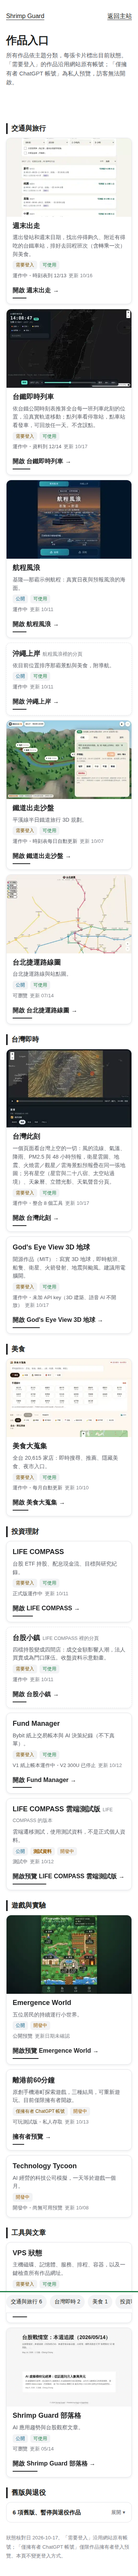
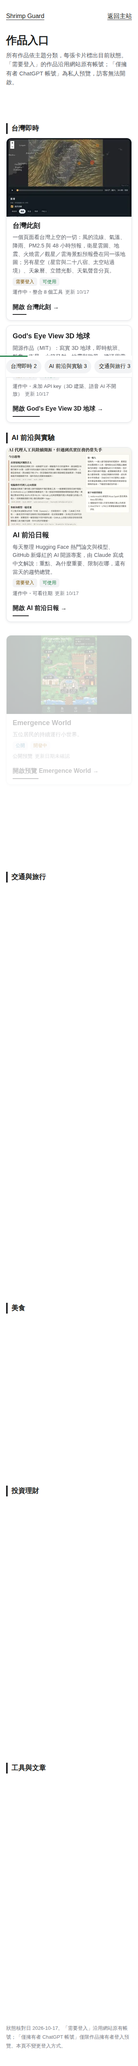
projects: reorganise into 6 themes (台灣即時 / AI 前沿與實驗 / 交通與旅行 / 美食 / 投資理財 / 工具與文章); add AI 前沿日報 and 台灣鐵道 (4 rail tools in one); remove retired, test-copy and undeployed works (14 works)
Claude-Session: https://claude.ai/code/session_01GVcRfQhdVaSGc69DiKrmzk

diff --git a/overlays/projects/index.html b/overlays/projects/index.html
@@ -1,0 +1,50 @@
+<!doctype html><html lang="zh-Hant"><head><meta charset="utf-8"><meta name="viewport" content="width=device-width,initial-scale=1"><title>作品入口 · Shrimp Guard</title><meta name="description" content="Shrimp Guard 所有作品與目前狀態。"><style>
+:root{color-scheme:light dark;--bg:#fff;--card:#fff;--ink:#1d1e20;--ink2:#5b5e66;--ink3:#7d8087;--line:#e3e4e8;--chip:#f2f3f5;--ok:#1d7f46;--dev:#9a5c00;--old:#6c6f77;--ask:#5b43b0;--lock:#7a5000;--pub:#0a5f85}
+@media (prefers-color-scheme:dark){:root{--bg:#1d1e20;--card:#26272b;--ink:#dadadb;--ink2:#b0b2b7;--ink3:#8c8f96;--line:#38393e;--chip:#313237;--ok:#57c785;--dev:#e3a23a;--old:#a3a6ad;--ask:#ad98f2;--lock:#e5b864;--pub:#64bde4}}
+*{box-sizing:border-box}body{margin:0;background:var(--bg);color:var(--ink);font-family:-apple-system,BlinkMacSystemFont,"Segoe UI","PingFang TC","Noto Sans TC",sans-serif;line-height:1.55}
+.shell{max-width:1000px;margin:auto;padding:20px 16px 40px}
+nav.top{display:flex;justify-content:space-between;align-items:center}nav.top a{color:var(--ink);padding:10px 0;text-decoration:underline;text-underline-offset:4px}
+h1{font-size:clamp(28px,5vw,40px);margin:18px 0 6px}.intro{color:var(--ink2);margin:0;font-size:15px}
+.jump{position:sticky;top:0;z-index:2;background:var(--bg);display:flex;gap:8px;overflow-x:auto;padding:10px 0;margin-top:12px;border-bottom:1px solid var(--line)}
+.jump a{flex:none;font-size:14px;padding:7px 12px;border-radius:999px;background:var(--chip);color:var(--ink);text-decoration:none;white-space:nowrap}
+section{scroll-margin-top:60px}h2{font-size:18px;margin:26px 0 10px;padding-left:10px;border-left:4px solid var(--ink)}
+.grid{display:grid;grid-template-columns:repeat(2,minmax(0,1fr));gap:12px;align-items:start}
+.card{background:var(--card);border:1px solid var(--line);border-radius:12px;padding:14px 16px;display:flex;flex-direction:column;gap:6px;min-width:0}
+.card.sub{border-style:dashed}
+.name{font-size:18px;font-weight:700;margin:0}.of{font-size:12.5px;color:var(--ink3);font-weight:400;margin-left:6px}
+.desc{font-size:14px;color:var(--ink2);margin:0}
+.tags{display:flex;gap:6px;flex-wrap:wrap;margin:0;padding:0;list-style:none}
+.tags li{font-size:12px;padding:2px 8px;border-radius:6px;background:var(--chip);color:var(--ink2)}
+.tags .pub{color:var(--pub)}.tags .lock{color:var(--lock)}.tags .ok{color:var(--ok)}.tags .dev{color:var(--dev)}.tags .old{color:var(--old)}.tags .ask{color:var(--ask)}.tags .test{color:var(--dev);font-weight:700}
+.st{font-size:13px;color:var(--ink2);margin:0}.st time{color:var(--ink3);margin-left:6px}
+.open{margin:2px 0 0}.open a{display:inline-block;padding:8px 0;color:var(--ink);font-weight:700;text-decoration:underline;text-underline-offset:4px}
+details{border:1px solid var(--line);border-radius:12px;background:var(--card)}
+summary{cursor:pointer;padding:14px 16px;font-size:15px;font-weight:700;display:flex;justify-content:space-between;align-items:center}
+summary::-webkit-details-marker{display:none}summary::after{content:"展開 ▾";font-size:13px;font-weight:500;color:var(--ink2)}details[open] summary::after{content:"收合 ▴"}
+details .grid{padding:0 12px 12px}
+footer{margin-top:28px;font-size:13px;color:var(--ink3);line-height:1.8}
+a:focus-visible,summary:focus-visible{outline:3px solid #6797c0;outline-offset:4px}
+@media(max-width:600px){.grid{grid-template-columns:1fr}}
+.pv{display:block;margin:-14px -16px 4px;border-radius:12px 12px 0 0;overflow:hidden;aspect-ratio:8/5;background:var(--chip)}
+.pv img{display:block;width:100%;height:100%;object-fit:cover}
+.progress{position:fixed;left:0;top:0;height:3px;width:100%;background:var(--ok);transform-origin:0 50%;transform:scaleX(0);z-index:5}
+@media (prefers-reduced-motion:no-preference){
+  /* #081 hover lift: up 8 px, shadow blur 6→22 px, 0.3 s ease-out */
+  .card{transition:transform .3s cubic-bezier(.22,.9,.3,1),box-shadow .3s cubic-bezier(.22,.9,.3,1);box-shadow:0 2px 6px rgba(28,35,51,.08)}
+  .card:hover{transform:translateY(-8px);box-shadow:0 12px 22px rgba(28,35,51,.22)}
+  /* #082 image zoom on hover: fixed frame, picture to 1.06× over 0.5 s */
+  .pv img{transition:transform .5s cubic-bezier(.22,.9,.3,1)}.card:hover .pv img{transform:scale(1.06)}
+  /* #086 underline animation: grows from the left in 0.3 s */
+  .open a{text-decoration:none;background:linear-gradient(currentColor,currentColor) 0 100%/30% 2px no-repeat;transition:background-size .3s ease-out}
+  .open a:hover,.open a:focus-visible{background-size:100% 2px}
+  @supports (animation-timeline:view()){
+    /* #074 fade-in on scroll: up from 30 px as each card enters */
+    .card{animation:rise linear both;animation-timeline:view();animation-range:entry 0% entry 35%}
+    @keyframes rise{from{opacity:0;translate:0 30px}to{opacity:1;translate:0 0}}
+    /* #079 scroll progress bar */
+    .progress{animation:grow linear both;animation-timeline:scroll(root)}
+    @keyframes grow{to{transform:scaleX(1)}}
+  }
+}
+@media (prefers-reduced-motion:reduce){.progress{display:none}}
+</style></head><body><div class="progress" aria-hidden="true"></div><div class="shell"><nav class="top" aria-label="網站導覽"><a href="/">Shrimp Guard</a><a href="/">返回主站</a></nav><main><h1>作品入口</h1><p class="intro">所有作品依主題分類，每張卡片標出目前狀態。「需要登入」的作品沿用網站原有帳號；「僅擁有者 ChatGPT 帳號」為私人預覽，訪客無法開啟。</p><nav class="jump" aria-label="分類"><a href="#live">台灣即時 2</a><a href="#ai">AI 前沿與實驗 3</a><a href="#travel">交通與旅行 3</a><a href="#food">美食 1</a><a href="#money">投資理財 3</a><a href="#tools">工具與文章 2</a></nav><section id="live" aria-label="台灣即時"><h2>台灣即時</h2><div class="grid"><article class="card has-pv"><picture class="pv"><source media="(prefers-reduced-motion: reduce)" srcset="previews/taiwan.poster.webp"><img src="previews/taiwan.webp" width="480" height="300" loading="lazy" decoding="async" alt="台灣此刻 畫面預覽"></picture><h3 class="name">台灣此刻</h3><p class="desc">一個頁面看台灣上空的一切：風的流線、氣溫、降雨、PM2.5 與 48 小時預報，衛星雲圖、地震、火燒雲／觀星／雲海景點預報疊在同一張地圖；另有星空（星官與二十八宿、太空站過境）、天象曆、立體光影、天氣聲音分頁。</p><ul class="tags"><li class="lock">需要登入</li><li class="ok">可使用</li></ul><p class="st">運作中・整合 8 個工具<time>更新 10/17</time></p><p class="open"><a href="https://dashboard.shrimp-guard.us.ci/apps/taiwan/">開啟 台灣此刻 →</a></p></article><article class="card"><h3 class="name">God&#x27;s Eye View 3D 地球</h3><p class="desc">開源作品（MIT）：寫實 3D 地球，即時航班、船隻、衛星、火箭發射、地震與颱風。建議用電腦開。</p><ul class="tags"><li class="lock">需要登入</li><li class="ok">可使用</li></ul><p class="st">運作中・未加 API key（3D 建築、語音 AI 不開放）<time>更新 10/17</time></p><p class="open"><a href="https://dashboard.shrimp-guard.us.ci/globe/">開啟 God&#x27;s Eye View 3D 地球 →</a></p></article></div></section><section id="ai" aria-label="AI 前沿與實驗"><h2>AI 前沿與實驗</h2><div class="grid"><article class="card has-pv"><picture class="pv"><source media="(prefers-reduced-motion: reduce)" srcset="previews/ai-frontier.poster.webp"><img src="previews/ai-frontier.webp" width="480" height="300" loading="lazy" decoding="async" alt="AI 前沿日報 畫面預覽"></picture><h3 class="name">AI 前沿日報</h3><p class="desc">每天整理 Hugging Face 熱門論文與模型、GitHub 新爆紅的 AI 開源專案，由 Claude 寫成中文解說：重點、為什麼重要、限制在哪，還有當天的趨勢總覽。</p><ul class="tags"><li class="lock">需要登入</li><li class="ok">可使用</li></ul><p class="st">運作中・可看往期<time>更新 10/17</time></p><p class="open"><a href="https://dashboard.shrimp-guard.us.ci/apps/ai-frontier/">開啟 AI 前沿日報 →</a></p></article><article class="card has-pv"><picture class="pv"><source media="(prefers-reduced-motion: reduce)" srcset="previews/emergence.poster.webp"><img src="previews/emergence.webp" width="480" height="300" loading="lazy" decoding="async" alt="Emergence World 畫面預覽"></picture><h3 class="name">Emergence World</h3><p class="desc">五位居民的持續運行小世界。</p><ul class="tags"><li class="pub">公開</li><li class="dev">開發中</li></ul><p class="st">公開預覽<time>更新日期未確認</time></p><p class="open"><a href="https://emergence-world-preview.httpsmulticlawmoltidworkersdevcmolt32c002a10b29b0e3ad3.workers.dev/">開啟預覽 Emergence World →</a></p></article><article class="card"><h3 class="name">離港前60分鐘</h3><p class="desc">原創手機港町探索遊戲，三種結局，可重新遊玩。目前僅限擁有者開啟。</p><ul class="tags"><li class="lock">僅擁有者 ChatGPT 帳號</li><li class="dev">開發中</li></ul><p class="st">可玩測試版・私人存取<time>更新 10/13</time></p><p class="open"><a href="https://harbor-sixty-minute-game.windy-maple-0615.chatgpt.site">擁有者預覽 →</a></p></article></div></section><section id="travel" aria-label="交通與旅行"><h2>交通與旅行</h2><div class="grid"><article class="card has-pv"><picture class="pv"><source media="(prefers-reduced-motion: reduce)" srcset="previews/rail-live.poster.webp"><img src="previews/rail-live.webp" width="480" height="300" loading="lazy" decoding="async" alt="台灣鐵道 畫面預覽"></picture><h3 class="name">台灣鐵道</h3><p class="desc">一頁整合：全台每班列車此刻在哪（可切 3D 地形，山的光影跟著時間變）、週末出走找站吃美食、平溪線 3D 半日遊沙盤、台北捷運路線圖。</p><ul class="tags"><li class="lock">需要登入</li><li class="ok">可使用</li></ul><p class="st">運作中・時刻表到 12/13<time>更新 10/17</time></p><p class="open"><a href="https://dashboard.shrimp-guard.us.ci/apps/rail/">開啟 台灣鐵道 →</a></p></article><article class="card has-pv"><picture class="pv"><source media="(prefers-reduced-motion: reduce)" srcset="previews/room.poster.webp"><img src="previews/room.webp" width="480" height="300" loading="lazy" decoding="async" alt="航程風浪 畫面預覽"></picture><h3 class="name">航程風浪</h3><p class="desc">基隆—那霸示例航程：真實日夜與預報風浪的海面。</p><ul class="tags"><li class="pub">公開</li><li class="ok">可使用</li></ul><p class="st">運作中<time>更新 10/11</time></p><p class="open"><a href="/room/">開啟 航程風浪 →</a></p></article><article class="card sub"><h3 class="name">沖繩上岸<span class="of">航程風浪裡的分頁</span></h3><p class="desc">依目前位置排序那霸景點與美食，附導航。</p><ul class="tags"><li class="pub">公開</li><li class="ok">可使用</li></ul><p class="st">運作中<time>更新 10/11</time></p><p class="open"><a href="/room/#landing">開啟 沖繩上岸 →</a></p></article></div></section><section id="food" aria-label="美食"><h2>美食</h2><div class="grid"><article class="card has-pv"><picture class="pv"><source media="(prefers-reduced-motion: reduce)" srcset="previews/food-map.poster.webp"><img src="previews/food-map.webp" width="480" height="300" loading="lazy" decoding="async" alt="美食大蒐集 畫面預覽"></picture><h3 class="name">美食大蒐集</h3><p class="desc">全台 20,615 家店：即時搜尋、推薦、隱藏美食、夜市入口。</p><ul class="tags"><li class="lock">需要登入</li><li class="ok">可使用</li></ul><p class="st">運作中・每月自動更新<time>更新 10/10</time></p><p class="open"><a href="https://dashboard.shrimp-guard.us.ci/food-map/">開啟 美食大蒐集 →</a></p></article></div></section><section id="money" aria-label="投資理財"><h2>投資理財</h2><div class="grid"><article class="card"><h3 class="name">LIFE COMPASS</h3><p class="desc">台股 ETF 持股、配息現金流、目標與研究紀錄。</p><ul class="tags"><li class="lock">需要登入</li><li class="ok">可使用</li></ul><p class="st">正式版運作中<time>更新 10/11</time></p><p class="open"><a href="https://dashboard.shrimp-guard.us.ci/one-life/">開啟 LIFE COMPASS →</a></p></article><article class="card sub"><h3 class="name">台股小鎮<span class="of">LIFE COMPASS 裡的分頁</span></h3><p class="desc">四檔持股變成四間店：成交金額影響人潮，法人買賣成為門口隊伍。收盤資料示意動畫。</p><ul class="tags"><li class="lock">需要登入</li><li class="ok">可使用</li></ul><p class="st">運作中<time>更新 10/11</time></p><p class="open"><a href="https://dashboard.shrimp-guard.us.ci/one-life/#town">開啟 台股小鎮 →</a></p></article><article class="card"><h3 class="name">Fund Manager</h3><p class="desc">Bybit 紙上交易帳本與 AI 決策紀錄（不下真單）。</p><ul class="tags"><li class="lock">需要登入</li><li class="ok">可使用</li></ul><p class="st">V1 紙上帳本運作中・V2 300U 已停止<time>更新 10/12</time></p><p class="open"><a href="https://dashboard.shrimp-guard.us.ci/fund-manager/">開啟 Fund Manager →</a></p></article></div></section><section id="tools" aria-label="工具與文章"><h2>工具與文章</h2><div class="grid"><article class="card"><h3 class="name">VPS 狀態</h3><p class="desc">主機磁碟、記憶體、服務、排程、容器，以及一鍵檢查所有作品網址。</p><ul class="tags"><li class="lock">需要登入</li><li class="ok">可使用</li></ul><p class="st">運作中<time>更新 10/17</time></p><p class="open"><a href="https://dashboard.shrimp-guard.us.ci/apps/vps/">開啟 VPS 狀態 →</a></p></article><article class="card has-pv"><picture class="pv"><source media="(prefers-reduced-motion: reduce)" srcset="previews/blog.poster.webp"><img src="previews/blog.webp" width="480" height="300" loading="lazy" decoding="async" alt="Shrimp Guard 部落格 畫面預覽"></picture><h3 class="name">Shrimp Guard 部落格</h3><p class="desc">AI 應用趨勢與台股觀察文章。</p><ul class="tags"><li class="pub">公開</li><li class="ok">可使用</li></ul><p class="st">可瀏覽<time>更新 05/14</time></p><p class="open"><a href="/">開啟 Shrimp Guard 部落格 →</a></p></article></div></section></main><footer>狀態核對日 2026-10-17。「需要登入」沿用網站原有帳號；「僅擁有者 ChatGPT 帳號」僅限作品擁有者登入預覽。本頁不變更登入方式。</footer></div></body></html>

diff --git a/scripts/build_projects_entry.py b/scripts/build_projects_entry.py
@@ -9,32 +9,22 @@ CHECKED = '2026-10-17'
 # group: ok 可使用 / dev 開發中 / old 舊版／暫停 (collapsed) / ask 待確認 (no open button)
 WORKS = [
     dict(c='live', g='ok', name='台灣此刻', pv='taiwan', desc='一個頁面看台灣上空的一切：風的流線、氣溫、降雨、PM2.5 與 48 小時預報，衛星雲圖、地震、火燒雲／觀星／雲海景點預報疊在同一張地圖；另有星空（星官與二十八宿、太空站過境）、天象曆、立體光影、天氣聲音分頁。', url=D + '/apps/taiwan/', login=True, st='運作中・整合 8 個工具', date='10/17'),
-    dict(c='travel', g='ok', name='週末出走', pv='weekend', desc='選出發站和週末日期，找出停得夠久、附近有得吃的台鐵車站，排好去回程班次（含轉乘一次）與美食。', url=D + '/weekend/', login=True, st='運作中・時刻表到 12/13', date='10/16'),
-    dict(c='travel', g='ok', name='台鐵即時列車', pv='rail-live', desc='依台鐵公開時刻表推算全台每一班列車此刻的位置，沿真實軌道移動；點列車看停靠站，點車站看發車，可回放任一天。不含誤點。', url=D + '/apps/rail-live/', login=True, st='運作中・資料到 12/14', date='10/17'),
     dict(c='live', g='ok', name="God's Eye View 3D 地球", desc='開源作品（MIT）：寫實 3D 地球，即時航班、船隻、衛星、火箭發射、地震與颱風。建議用電腦開。', url=D + '/globe/', login=True, st='運作中・未加 API key（3D 建築、語音 AI 不開放）', date='10/17'),
-    dict(c='tools', g='ok', name='VPS 狀態', desc='主機磁碟、記憶體、服務、排程、容器，以及一鍵檢查所有作品網址。', url=D + '/apps/vps/', login=True, st='運作中', date='10/17'),
-    dict(c='money', g='ok', name='LIFE COMPASS', desc='台股 ETF 持股、配息現金流、目標與研究紀錄。', url=D + '/one-life/', login=True, st='正式版運作中', date='10/11'),
-    dict(c='money', g='ok', name='台股小鎮', of='LIFE COMPASS 裡的分頁', desc='四檔持股變成四間店：成交金額影響人潮，法人買賣成為門口隊伍。收盤資料示意動畫。', url=D + '/one-life/#town', login=True, sub=True, st='運作中', date='10/11'),
+    dict(c='ai', g='ok', name='AI 前沿日報', pv='ai-frontier', desc='每天整理 Hugging Face 熱門論文與模型、GitHub 新爆紅的 AI 開源專案，由 Claude 寫成中文解說：重點、為什麼重要、限制在哪，還有當天的趨勢總覽。', url=D + '/apps/ai-frontier/', login=True, st='運作中・可看往期', date='10/17'),
+    dict(c='ai', g='dev', name='Emergence World', pv='emergence', desc='五位居民的持續運行小世界。', url='https://emergence-world-preview.httpsmulticlawmoltidworkersdevcmolt32c002a10b29b0e3ad3.workers.dev/', login=False, st='公開預覽', date=None),
+    dict(c='ai', g='dev', name='離港前60分鐘', desc='原創手機港町探索遊戲，三種結局，可重新遊玩。目前僅限擁有者開啟。', url='https://harbor-sixty-minute-game.windy-maple-0615.chatgpt.site', login=True, access='僅擁有者 ChatGPT 帳號', btn='擁有者預覽', st='可玩測試版・私人存取', date='10/13'),
+    dict(c='travel', g='ok', name='台灣鐵道', pv='rail-live', desc='一頁整合：全台每班列車此刻在哪（可切 3D 地形，山的光影跟著時間變）、週末出走找站吃美食、平溪線 3D 半日遊沙盤、台北捷運路線圖。', url=D + '/apps/rail/', login=True, st='運作中・時刻表到 12/13', date='10/17'),
     dict(c='travel', g='ok', name='航程風浪', pv='room', desc='基隆—那霸示例航程：真實日夜與預報風浪的海面。', url='/room/', login=False, st='運作中', date='10/11'),
     dict(c='travel', g='ok', name='沖繩上岸', of='航程風浪裡的分頁', desc='依目前位置排序那霸景點與美食，附導航。', url='/room/#landing', login=False, sub=True, st='運作中', date='10/11'),
     dict(c='food', g='ok', name='美食大蒐集', pv='food-map', desc='全台 20,615 家店：即時搜尋、推薦、隱藏美食、夜市入口。', url=D + '/food-map/', login=True, st='運作中・每月自動更新', date='10/10'),
-    dict(c='travel', g='ok', name='鐵道出走沙盤', pv='rail-trip', desc='平溪線半日鐵道旅行 3D 規劃。', url=D + '/rail-trip/', login=True, st='運作中・時刻表每日自動更新', date='10/07'),
+    dict(c='money', g='ok', name='LIFE COMPASS', desc='台股 ETF 持股、配息現金流、目標與研究紀錄。', url=D + '/one-life/', login=True, st='正式版運作中', date='10/11'),
+    dict(c='money', g='ok', name='台股小鎮', of='LIFE COMPASS 裡的分頁', desc='四檔持股變成四間店：成交金額影響人潮，法人買賣成為門口隊伍。收盤資料示意動畫。', url=D + '/one-life/#town', login=True, sub=True, st='運作中', date='10/11'),
     dict(c='money', g='ok', name='Fund Manager', desc='Bybit 紙上交易帳本與 AI 決策紀錄（不下真單）。', url=D + '/fund-manager/', login=True, st='V1 紙上帳本運作中・V2 300U 已停止', date='10/12'),
-    dict(c='travel', g='ok', name='台北捷運路線圖', pv='taipei-mrt', desc='台北捷運路線與站點圖。', url='/taipei-mrt/', login=False, st='可瀏覽', date='07/14'),
+    dict(c='tools', g='ok', name='VPS 狀態', desc='主機磁碟、記憶體、服務、排程、容器，以及一鍵檢查所有作品網址。', url=D + '/apps/vps/', login=True, st='運作中', date='10/17'),
     dict(c='tools', g='ok', name='Shrimp Guard 部落格', pv='blog', desc='AI 應用趨勢與台股觀察文章。', url='/', login=False, st='可瀏覽', date='05/14'),
-    dict(c='money', g='dev', name='LIFE COMPASS 雲端測試版', of='LIFE COMPASS 的版本', desc='雲端遷移測試，使用測試資料，不是正式個人資料。', url='https://life-compass.httpsmulticlawmoltidworkersdevcmolt32c002a10b29b0e3ad3.workers.dev/', login=False, test=True, st='測試中', date='10/12'),
-    dict(c='lab', g='dev', name='Emergence World', pv='emergence', desc='五位居民的持續運行小世界。', url='https://emergence-world-preview.httpsmulticlawmoltidworkersdevcmolt32c002a10b29b0e3ad3.workers.dev/', login=False, st='公開預覽', date=None),
-    dict(c='lab', g='dev', name='離港前60分鐘', desc='原創手機港町探索遊戲，三種結局，可重新遊玩。目前僅限擁有者開啟。', url='https://harbor-sixty-minute-game.windy-maple-0615.chatgpt.site', login=True, access='僅擁有者 ChatGPT 帳號', btn='擁有者預覽', st='可玩測試版・私人存取', date='10/13'),
-    dict(c='lab', g='dev', name='Technology Tycoon', desc='AI 經營的科技公司模擬，一天等於遊戲一個月。', url=None, st='開發中・尚無可用預覽', date='10/08'),
-    dict(c='old', g='old', name='小王國', desc='手機王國遊戲（建設村莊、發布懸賞、英雄自行出任務）。', url=None, st='暫停・素材成果保留', date='10/12'),
-    dict(c='old', g='old', name='世界與我', desc='原入口保留中。', url='/world-impact/', login=False, st='保留中', date='10/08'),
-    dict(c='old', g='old', name='美食大蒐集（公開版）', of='美食大蒐集的版本', desc='曾規劃的 GitHub Pages 公開版本。', url=None, st='暫停・正式版在美食大蒐集', date='10/10'),
-    dict(c='old', g='old', name='ONE LIFE ／ AI Resident', desc='生活角色實驗，網址已由 LIFE COMPASS 接手。', url=None, st='已退役', date='10/01'),
-    dict(c='old', g='old', name='AI COMMONS ／ Latticefolk', desc='多模型社群與 AI 生活世界實驗。', url=None, st='已退役', date='09/30'),
-    dict(c='old', g='old', name='Fund Manager V2 300U', of='Fund Manager 的版本', desc='300 USDT 雙向持倉紙上帳本。', url=None, st='已停止・紀錄可在 Fund Manager 查看', date='10/12'),
 ]
 GROUPS = [('ok', '可使用'), ('dev', '開發中'), ('old', '舊版／暫停')]  # status, shown as a tag on each card
-CATS = [('travel', '交通與旅行'), ('live', '台灣即時'), ('food', '美食'), ('money', '投資理財'), ('lab', '遊戲與實驗'), ('tools', '工具與文章'), ('old', '舊版與退役')]
+CATS = [('live', '台灣即時'), ('ai', 'AI 前沿與實驗'), ('travel', '交通與旅行'), ('food', '美食'), ('money', '投資理財'), ('tools', '工具與文章')]
 assert all(w['c'] in dict(CATS) for w in WORKS) and all((w['c'] == 'old') == (w['g'] == 'old') for w in WORKS)
 
 CSS = """

diff --git a/scripts/test_publication.py b/scripts/test_publication.py
@@ -35,7 +35,7 @@ class EntryContent(unittest.TestCase):
     self.assertTrue((root/'publication'/href.split('#')[0].lstrip('/')/'index.html').is_file())
   for w in entry_src.WORKS:
    if w['g']=='ask': self.assertIsNone(w.get('url'))
-  for status in ['測試資料','尚無可用預覽','舊版']: self.assertIn(status,html)
+  for status in ['需要登入','開發中','公開']: self.assertIn(status,html)
   self.assertNotRegex(html,r'\d+/\d+ 通過')   # test results stay in the report, not on public cards
   delta='\n<li><a href="/projects/">作品入口</a></li>'.encode()
   if (root/'overlays/index.html').exists():
